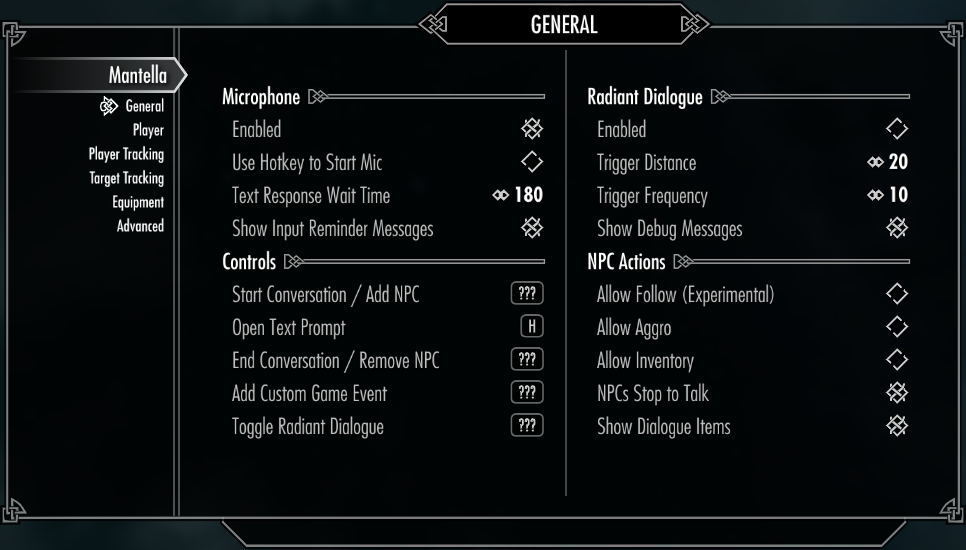
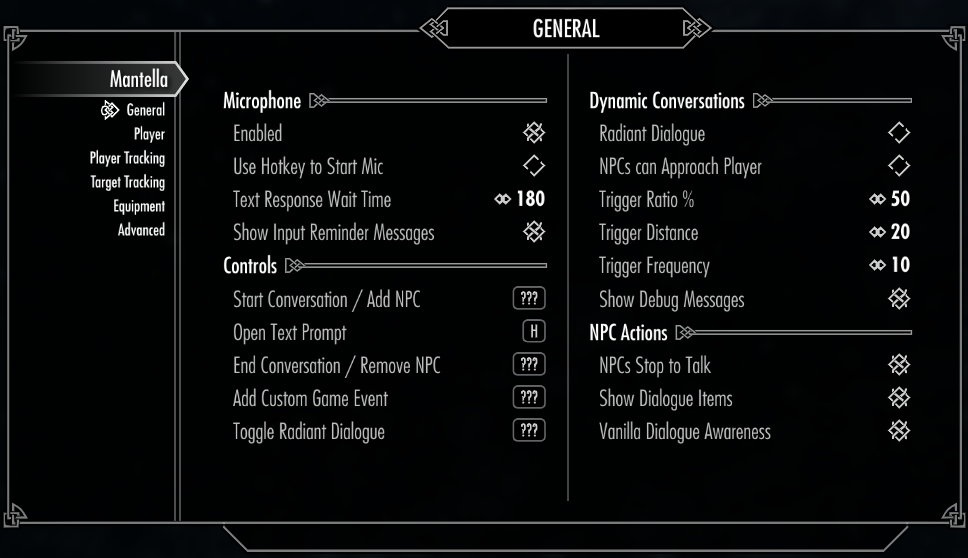
v0.14 update

diff --git a/docs/pages/installation.md b/docs/pages/installation.md
@@ -17,9 +17,9 @@
 	Eg `C:\Games\Steam\steamapps\common\Skyrim Special Edition\Data\Mantella`.
 	</details>
 
-3. Create a free account with <a href="https://openrouter.ai/sign-up" target="_blank" rel="noopener noreferrer">OpenRouter</a>. Go to the "Keys" tab in the top right corner and generate a new key. Save the key value to the `GPT_SECRET_KEY.txt` file in your Mantella folder found in step 2.
+3. Create a free account with <a href="https://openrouter.ai/workspaces/default/keys" target="_blank" rel="noopener noreferrer">OpenRouter</a>. Go to `Settings -> API Keys` and generate a new key. Save the key value to the `GPT_SECRET_KEY.txt` file in your Mantella folder found in step 2.
 
-4. Launch Skyrim. Mantella will open a window automatically when Skyrim is launched and will say "Waiting for player to select an NPC..." when it is ready (this might take a few minutes when launched for the first time). When you start the game, the Mantella spell will be added to your inventory. Cast this spell on an NPC to start a conversation.
+4. Launch Skyrim. Mantella will open a window automatically when Skyrim is launched and will say `"Waiting for player to select an NPC..."` when it is ready. When you start the game, the Mantella spell will be added to your inventory. Cast this spell on an NPC to start a conversation.
 
 ```{admonition} Note
 :class: seealso
@@ -54,7 +54,7 @@ ____________________________________
 As Mantella accesses and writes to files within your Skyrim folder, it is unlikely to work correctly **if you have Skyrim stored in Program Files / (x86)**. Please ensure that you have Skyrim stored outside of this folder (eg `C:\Games\Steam`).
 ```
 
-Steam does not allow to create a new Steam Game Library on the same disk. You can either move the whole Steam client outside [as described on this Steam Support page](https://help.steampowered.com/en/faqs/view/4BD4-4528-6B2E-8327) or use [LostDragonist/steam-library-setup-tool](https://github.com/LostDragonist/steam-library-setup-tool/wiki/Usage-Guide) to allow multiple Steam Game Libraries on one disk.
+Steam does not allow you to create a new Steam Game Library on the same disk. You can either move the whole Steam client outside [as described on this Steam Support page](https://help.steampowered.com/en/faqs/view/4BD4-4528-6B2E-8327) or use [LostDragonist/steam-library-setup-tool](https://github.com/LostDragonist/steam-library-setup-tool/wiki/Usage-Guide) to allow multiple Steam Game Libraries on one disk.
 
 ### Required Skyrim Mods
 <div style="display: flex; align-items: flex-start;">
@@ -121,16 +121,29 @@ You can end a conversation by casting the Mantella End Conversation spell, or by
 Once a conversation has started, you can add more NPCs to the conversation between each of your responses to start a group conversation:  
 `Cast Mantella on NPC1 -> Say hi to NPC1 -> Cast Mantella on NPC2 -> Say hi to NPC1 & NPC2 etc`
 
-Radiant conversations can also be enabled in the MCM menu. These are conversations that are randomly started between idle NPCs. You can join the conversation by casting Mantella on either NPC.
+Alternatively, cast the Mantella spell without any NPC in your crosshair to start a group conversation with up to 5 NPCs nearby.
+
+Radiant conversations can also be enabled in the MCM menu. These are conversations that are randomly started between idle NPCs. You can join the conversation by casting Mantella on either NPC. "NPCs can Approach Player"  allows a random nearby NPC to apprach you to start a conversation.
 
 ### Text Input
 Text input can be enabled by disabling mic input in Mantella's MCM menu.
 
 ### Restarting the Mantella window
-If for whatever reason the Mantella window crashes or gets stuck, you can restart it by going to your `Mantella MCM -> Advanced -> Restart Mantella.exe`.
+If for whatever reason the Mantella window crashes or gets stuck, you can restart it by going to `Mantella MCM -> Advanced -> Restart Mantella.exe`.
 
 ### Actions
-By default, actions are disabled in the Mantella MCM. You can enabled these in the MCM's `General` tab. If you struggling to get an NPC to perform an action on their own, you can force these actions to occur by simply saying / typing the action you want to occur (eg "follow", "inventory", etc).
+#### Advanced Actions
+Advanced actions can be enabled in the `Actions` tab of the Mantella UI. Unlike basic actions, these actions allow LLMs to have greater control over how an action is triggered.  
+
+For example, when advanced actions are enabled, the `MoveTo` action allows the LLM to select which NPCs to move and where they should move. In contrast, the basic version of `MoveTo` only allows a single NPC to move to the player.  
+
+#### Disabled Actions
+Not all actions are enabled by default - see the `Actions` tab of the Mantella UI to see which actions are disabled. The more actions that are enabled, the more LLMs will struggle to manage the number of actions, so ideally only the actions you are interested in should be enabled.  
+
+Some actions are experimental, and may cause bugs over long playthroughs. For full details on each action, see the `<mod_folder>\Mantella\SKSE\Plugins\MantellaSoftware\data\actions\` folder.  
+
+#### Commands
+If you struggling to get an NPC to perform an action on their own, you can force these actions to occur by simply saying / typing the action you want to occur (eg "follow", "inventory", etc).  
 
 ### Saved Data
 When a conversation ends, a summary of the conversation is saved to a local text file for each NPC in the conversation. These summaries are then loaded the next time an NPC is spoken with. You can view / edit these summaries in your `My Games/Mantella/data/Skyrim/conversations/YourPlayerName1/` folder.
@@ -148,7 +161,7 @@ LLMs power the creation of responses by NPCs. There are a number of different LL
 Some smaller models may struggle to handle long term conversations and memory summarising.
 ```
 
-If you have already followed the [quick start guide](#quick-start) you will have an OpenRouter account set up with Gemma 2 9B, a free and easy to use LLM. You can select from a variety of other LLMs hosted on OpenRouter (both free and paid) via the `Model` option in the `Large Language Model` tab of the [Mantella UI](#mantella-ui). 
+If you have already followed the [quick start guide](#quick-start) you will have an OpenRouter account set up with Gemma 4 26B A4B (free). You can select from a variety of other LLMs hosted on OpenRouter (both free and paid) via the `Model` option in the `Large Language Model` tab of the [Mantella UI](#mantella-ui). 
 
 If you would prefer to use a different service, or host your own LLM locally, see the options below:
 
@@ -169,17 +182,10 @@ Once completed, in the `LLM Service` dropdown of the `Large Language Model` tab 
 1. Install koboldcpp's latest release from [here](https://github.com/LostRuins/koboldcpp/releases). If you want to run koboldcpp on your CPU or otherwise do not have an NVIDIA GPU, download `koboldcpp_nocuda.exe` under "Assets". If you have an NVIDIA GPU with CUDA support, download `koboldcpp.exe` under "Assets".   
 <img src="../_static/img/kobold_download.png" alt="Kobold Download Files" width="200" height="auto" style="padding: 10px;"/>  
 
-2. Download a local model, such as `toppy-m-7b.Q4_K_S.gguf` from [here](https://huggingface.co/TheBloke/Toppy-M-7B-GGUF/tree/main?not-for-all-audiences=true).  
-<img src="../_static/img/toppy_download.png" alt="Toppy Download Location" width="500" height="auto" style="padding: 10px;"/>  
+2. Download a local model, such as `Gemma 4 E4B` from [here](https://huggingface.co/bartowski/google_gemma-4-E4B-it-GGUF?show_file_info=google_gemma-4-E4B-it-Q4_K_M.gguf).  
 
-3. Run koboldcpp.exe. When presented with the launch window, drag the "Context Size" slider to 4096. Click the "Browse" button next to the "Model" field and select the model you downloaded. Click "Launch" in the bottom right corner.  
+3. Run koboldcpp.exe. Click the "Browse" button next to the "Model" field and select the model you downloaded. Click "Launch" in the bottom right corner.  
 <img src="../_static/img/kobold_launch.png" alt="Kobold Launch Window" width="400" height="auto" style="padding: 10px;"/>  
-
-```{admonition} Optional
-:class: hint
-
-Under the "Presets" drop down at the top, choose either Use CLBlast, or Use CuBlas (if using Cuda). You will then see a field for GPU Layers. If you want to use CPU only leave it at 0. If you want to use your GPU, you can experiment with how many "layers" to offload to your GPU based on your system.
-```
 
 4. In the `LLM Service` dropdown of the `Large Language Model` tab of the [Mantella UI](#mantella-ui) select "KoboldCpp".
 
@@ -256,7 +262,7 @@ Make sure Ollama is running when Mantella is running!
 <br>
 
 #### Other LLM Services
-Mantella has the ability to support other language model services, although these services do need to support outputs in the OpenAI format (like text-generation-webui does via the "--extensions openai" option above). You can connect to any OpenAI-API-compatible service by following these steps:
+Mantella supports all language model services with an OpenAI-compatible API. You can connect to any OpenAI-API-compatible service by following these steps:
 
 1. Paste the OpenAI-API-compatible URL of the service into the `LLM Service` textbox of the `Large Language Model` tab in the [Mantella UI](#mantella-ui). These URLs typically end with `/v1`.
 
@@ -277,7 +283,7 @@ ____________________________________
 ### Vision
 LLM vision can be enabled in the `Vision` tab of the [Mantella UI](#mantella-ui). If the selected model in the `Large Language Model` tab has vision capabilities (or if a separate vision model has been selected in the `Vision` tab), a screenshot of your game window will be passed to the model every time you respond to an NPC. Please see the documentation of your selected LLM provider to find out which models support vision. For OpenRouter models, the full list can be found [here](https://openrouter.ai/models?fmt=cards&input_modalities=image).
 
-Vision capabilities can also be run locally via koboldcpp. To get started, download the required [mmproj file](https://huggingface.co/koboldcpp/mmproj/tree/main) for your local LLM (as an example, [Toppy](https://huggingface.co/TheBloke/Toppy-M-7B-GGUF/tree/main?not-for-all-audiences=true) requires `mistral-7b-mmproj-v1.5-Q4_1.gguf`). In the koboldcpp launch window, under the `Model Files` tab, set the path to your mmproj file via the `LLaVa mmproj` setting. When koboldcpp is launched, and vision is enabled in the [Mantella UI](#mantella-ui), your local LLM will support vision.
+Vision capabilities can also be run locally via koboldcpp. To get started, download the required [mmproj file](https://huggingface.co/koboldcpp/mmproj/tree/main) for your local LLM. In the koboldcpp launch window, under the `Loaaded Files` tab, set the path to your mmproj file via the `Mmproj File` setting. When koboldcpp is launched, and vision is enabled in the [Mantella UI](#mantella-ui), your local LLM will support vision.
 
 ____________________________________
 
@@ -361,6 +367,12 @@ By default, Mantella comes packaged with a fast and local TTS service called Pip
 	<details>
 		<summary><b>Local</b></summary> 
 
+```{admonition} Warning
+:class: attention
+
+The Mantella XTTS exe is currently incompatible with NVIDIA 5000 series GPUs. The server instead needs to be started by following the instructions [here](https://github.com/Haurrus/xtts-api-server-mantella).
+```
+
 1. Download MrHaurrus's XTTS API server from [here](https://www.nexusmods.com/skyrimspecialedition/mods/113445?tab=files) and unzip it.
 
 2. Download the [voice models (latents) folder](https://www.nexusmods.com/skyrimspecialedition/mods/113445?tab=files) for your desired language. Extract this folder into the same folder as `xtts-api-server-mantella.exe` above. In other words, you should have a folder called `latent_speaker_folder` in your XTTS folder.
@@ -380,12 +392,6 @@ By default, Mantella comes packaged with a fast and local TTS service called Pip
 
 2. Follow [this link](https://runpod.io/console/gpu-cloud?template=x9ddee271u&ref=szjabwfp) to open the Mantella XTTS Pod. Choose a GPU to run the Pod with (if in doubt, choose the cheapest). Note that cheaper GPUs are available if you change the "Secure Cloud" setting to "Community Cloud".  
 <img src="../_static/img/xtts_runpod_cloud_type.png" alt="XTTS RunPod Cloud Type" width="400" height="auto" style="padding: 10px;"/>
-
-```{admonition} Warning
-:class: attention
-
-As of writing, the Mantella XTTS RunPod is currently incompatible with NVIDIA 5000 series GPUs.
-```
 
 3. On the following two pages just click "Continue" and "Deploy" (you don't need to change any settings here).
 

diff --git a/docs/index.md b/docs/index.md
@@ -1,38 +1,42 @@
 ![Mantella Banner](./_static/img/mantella_banner.png)
 
 <div style="display: flex; align-items: center;">
-  <div style="flex: none; white-space: nowrap; text-align: right; padding-right: 5px;">
-    Available On
+  <div style="flex: none; white-space: nowrap; text-align: right; padding-right: 10px;">
+    <div style="font-size: 1.4em; font-weight: bold; color: #6DDF82;">350k+</div>
+    <div style="font-size: 0.85em; color: #6DDF82;">downloads</div>
   </div>
   <div>
     <a href="https://www.nexusmods.com/skyrimspecialedition/mods/98631" target="_blank">
-      <img src="./_static/img/nexus_mods_link_transparent.png" alt="Skyrim SE Nexus banner that links to Mantella" style="max-width:25%;height:auto;">
+      <img src="./_static/img/nexus_mods_link_transparent.png" alt="Skyrim SE Nexus banner that links to Mantella" style="max-width:25%;min-width:130px;height:auto;">
     </a>
     <a href="https://www.nexusmods.com/fallout4/mods/79747" target="_blank">
-      <img src="./_static/img/nexus_mods_fallout4_link_transparent.png" alt="Fallout 4 Nexus banner that links to Mantella" style="max-width:25%;height:auto;">
+      <img src="./_static/img/nexus_mods_fallout4_link_transparent.png" alt="Fallout 4 Nexus banner that links to Mantella" style="max-width:25%;min-width:130px;height:auto;">
     </a>
   </div>
 </div> 
 
 <hr style="border: 1px solid #505050; margin-top: 5px; margin-bottom: 15px;">
 
-<div style="display: flex; align-items: top; justify-content: space-between; gap: 20px;">
-  <div style="flex-grow: 1;">
-  <div style="margin-bottom: 20px; padding-left: 20px; border-left: 5px solid #ccc;">
+<div style="display: flex; align-items: top; justify-content: space-between; gap: 20px; flex-wrap: wrap-reverse;">
+  <div style="flex: 1 1 300px; min-width: 0;">
+  <div style="margin-bottom: 20px; padding-left: 20px; border-left: 5px solid #ccc; font-size: 1.1em;">
 
-   Bring Skyrim & Fallout 4 NPCs to life with AI
+   Bring NPCs to life with AI
    </div>
    <p>
-    Mantella is a Skyrim & Fallout 4 mod which allows you to naturally speak to NPCs using <a href="https://github.com/openai/whisper" target="_blank" rel="noopener noreferrer">Whisper</a> (speech-to-text), LLMs (text generation), and Piper / <a href="https://github.com/DanRuta/xVA-Synth" target="_blank" rel="noopener noreferrer">xVASynth</a> / <a href="https://www.nexusmods.com/skyrimspecialedition/mods/113445" target="_blank" rel="noopener noreferrer">XTTS</a> (text-to-speech). 
-    </p> 
-    <p>
-    Click <a href="https://youtu.be/FLmbd48r2Wo?si=QLe2_E1CogpxlaS1" target="_blank" rel="noopener noreferrer">here</a> to see the full trailer, or go straight to the  <a href="./pages/installation.html">installation guide for Skyrim</a> or <a href="./pages/installation_fallout4.html">the installation guide for Fallout 4.</a>
-    </p>
+    Mantella brings every NPC in Skyrim and Fallout 4 to life with AI. Natural voice conversations, real-time responses, persistent memory, dynamic actions, and full awareness of the world around them.
+   </p>
+   <p>
+    <a href="./pages/installation.html"><strong>Install for Skyrim</strong></a> &nbsp;·&nbsp; <a href="./pages/installation_fallout4.html"><strong>Install for Fallout 4</strong></a>
+   </p>
   </div>
-  <div style="flex-shrink: 0;">
+  <div style="flex-shrink: 0; text-align: center;">
     <a href="https://youtu.be/FLmbd48r2Wo?si=QLe2_E1CogpxlaS1" target="_blank" rel="noopener noreferrer">
       <img src="./_static/img/mantella_trailer.gif" alt="Mantella trailer link" style="height: 200px; width: auto;">
     </a>
+    <div style="font-size: 0.85em; margin-top: 4px;">
+      <a href="https://youtu.be/FLmbd48r2Wo?si=QLe2_E1CogpxlaS1" target="_blank" rel="noopener noreferrer">▶ Watch the trailer</a>
+    </div>
   </div>
 </div>
 
@@ -52,23 +56,41 @@ pages/contribute
 pages/attributions
 ```
 
-## Features
-- 🗣📢 Interact with 2,000+ NPCs, all with their own unique backgrounds (or [add your own](#adding-modded-npcs))
-- 💻🤖 Support for local (eg Llama 3), OpenAI (eg GPT-4o), and OpenRouter (eg Claude Opus) LLMs
-- 💬💭 NPCs remember past conversations with you
-- 🎮🌍 NPCs are aware of in-game events
-- ❤🗡 NPCs can perform actions based on conversations (follow, attack, forgive, inventory)
-- 👁🧠 NPCs can see what you see
-- 🗨👥 NPCs can start conversations with each other
-- 🗣👥 Talk to multiple NPCs in group conversations
-- 🌐⚙ Compatibility with 20+ languages
-- 🕶🔌 Fully playable in VR / SE / AE
+<hr style="border: 1px solid #505050; margin-top: 5px; margin-bottom: 15px;">
+
+<div style="font-size: 2em; font-weight: bold;">Highlights</div>
+
+<div style="font-size: 1.4em; font-weight: bold; padding-top: 1em; padding-bottom: 0.2em">Plug and Play</div>
+Install it, launch the game, start talking to NPCs. No faff. Mantella quietly launches in the background when you start the game and gets out of your way. Works out of the box with Wabbajack modlists.
+
+<div style="font-size: 1.4em; font-weight: bold; padding-top: 1em; padding-bottom: 0.2em">Real-Time Performance</div>
+Long response times kill immersion. Mantella is thoroughly tested to stay lightweight and enable real-time conversations.
+
+<div style="font-size: 1.4em; font-weight: bold; padding-top: 1em; padding-bottom: 0.2em">Local Friendly</div>
+Mantella is free and [open source](https://github.com/art-from-the-machine/Mantella). Run everything locally on your own hardware, or plug in OpenAI, OpenRouter, or any OpenAI-compatible API. No data leaves your PC unless you choose.
+
+<hr style="border: 1px solid #505050; margin-top: 5px; margin-bottom: 15px;">
+
+<div style="font-size: 2em; font-weight: bold;">Features</div>
+
+- 🗣 Interact with 3,000+ NPCs, each with their own unique background (or [add your own](#adding-modded-npcs))  
+- 💭 NPCs remember past conversations with you  
+- 🌍 NPCs are aware of in-game events  
+- 👁 NPCs can see what you see  
+- ⚔ NPCs can perform 20+ actions - follow, attack, trade, travel to locations, cast spells, and more  
+- 👥 NPCs can start conversations with each other, approach you, or join group conversations  
+- 🤖 Works with local models (Llama, Gemma, etc) and APIs (OpenAI, OpenRouter, NanoGPT)  
+- ⚙ Pre-packaged with speech-to-text and text-to-speech services - so you can get started faster  
+- 🌐 Compatibility with 20+ languages  
+- 🕶 Fully playable in VR / SE / AE  
 
 <hr style="border: 1px solid #505050; margin-top: 20px; margin-bottom: 20px;">
 
 See the latest trailer for Fallout 4 below:
 
-<iframe width="560" height="315" src="https://www.youtube.com/embed/cFv8butywng?si=US-JPTPKy5a7sAPv" title="YouTube video player" frameborder="0" allow="accelerometer; autoplay; clipboard-write; encrypted-media; gyroscope; picture-in-picture; web-share" referrerpolicy="strict-origin-when-cross-origin" allowfullscreen></iframe>
+<div style="position: relative; padding-bottom: 50%; height: 0; max-width: 720px;">
+  <iframe style="position: absolute; top: 0; left: 0; width: 100%; height: 100%;" src="https://www.youtube.com/embed/cFv8butywng?si=US-JPTPKy5a7sAPv" title="YouTube video player" frameborder="0" allow="accelerometer; autoplay; clipboard-write; encrypted-media; gyroscope; picture-in-picture; web-share" referrerpolicy="strict-origin-when-cross-origin" allowfullscreen></iframe>
+</div>
 <br>
 
 <hr style="border: 1px solid #505050; margin-top: 20px; margin-bottom: 20px;">

diff --git a/docs/pages/fine_tuned_models.md b/docs/pages/fine_tuned_models.md
@@ -26,6 +26,11 @@ An Alpaca-style dataset of 8,800+ player <-> NPC interactions has been generated
 ### Fine-Tunes
 
 #### Llama 3 8B Instruct
+```{admonition} Warning
+:class: attention
+
+This model is now very outdated and performs worse than newer, non fine-tuned models. It is therefore no longer recommended for use with Mantella. 
+```
 Link to Model: [https://huggingface.co/art-from-the-machine/Mantella-Skyrim-Llama-3-8B-GGUF](https://huggingface.co/art-from-the-machine/Mantella-Skyrim-Llama-3-8B-GGUF)
 
 <details>
@@ -75,5 +80,3 @@ Link to Model: [https://huggingface.co/art-from-the-machine/Mantella-Skyrim-Llam
 
 ## Contribute
 Many improvements can be made to the Skyrim dataset. A Fallout 4 dataset could also potentially be generated using the same methodology used to create the Skyrim dataset. A full list of potential future improvements can be found [here](https://github.com/art-from-the-machine/Mantella-LLM-Fine-Tuning#future-work).
-
-If you would like to fine-tune your own Skyrim or Fallout models, [Unsloth](https://unsloth.ai/) is a great way to get started with template Colab notebooks. If you are eager to fine-tune your own models, but are not sure about how to start, feel free to reach out on [Discord](https://discord.gg/Q4BJAdtGUE)!
